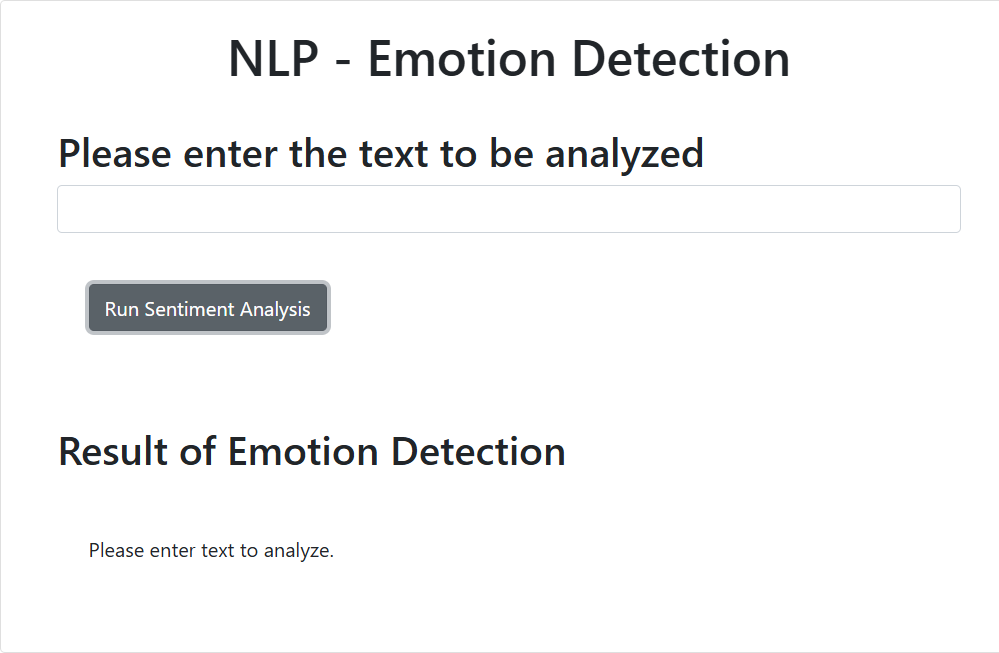
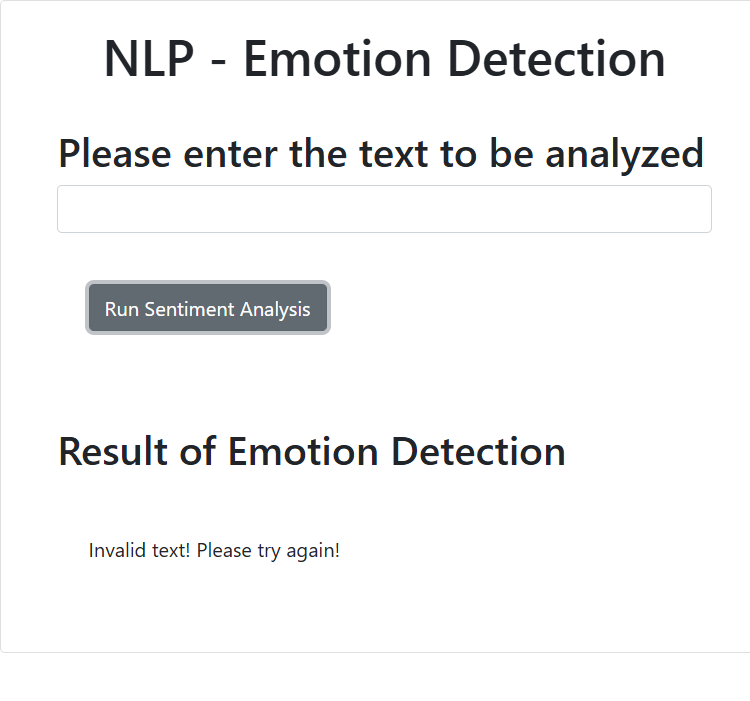
Address emotion detection rubric feedback

diff --git a/static/mywebscript.js b/static/mywebscript.js
@@ -8,20 +8,7 @@ let RunSentimentAnalysis = ()=>{
         }
 
         const responseElement = document.getElementById("system_response");
-        let responseData;
-        try {
-            responseData = JSON.parse(this.responseText);
-        } catch (error) {
-            responseElement.textContent = `Request failed (${this.status}).`;
-            return;
-        }
-
-        if (this.status === 200) {
-            responseElement.textContent = JSON.stringify(responseData, null, 2);
-        } else {
-            responseElement.textContent =
-                responseData.error || `Request failed (${this.status}).`;
-        }
+        responseElement.textContent = this.responseText;
     };
     xhttp.open(
         "GET",

diff --git a/test_emotion_detection.py b/test_emotion_detection.py
@@ -3,77 +3,98 @@
 import unittest
 from unittest.mock import patch
 
-import emotion_detection
+import emotion_detection as implementation
+from EmotionDetection.emotion_detection import emotion_detector
 
-API_URL = emotion_detection.API_URL
-MODEL_ID = emotion_detection.MODEL_ID
-emotion_detector = emotion_detection.emotion_detector
+API_URL = implementation.API_URL
+MODEL_ID = implementation.MODEL_ID
 
 
 class EmotionDetectorTests(unittest.TestCase):
     """Tests for emotion scoring and API request behavior."""
 
     @patch("emotion_detection.requests.post")
-    def test_returns_emotion_scores_and_dominant_emotion(self, mock_post):
-        """Return all emotion scores and identify the largest score."""
-        mock_post.return_value.status_code = 200
-        mock_post.return_value.json.return_value = {
-            "emotionPredictions": [
-                {
-                    "emotion": {
-                        "joy": 0.81,
-                        "anger": 0.02,
-                        "sadness": 0.04,
-                        "fear": 0.03,
-                        "disgust": 0.10,
-                    }
+    def test_five_sentences_return_expected_dominant_emotions(self, mock_post):
+        """Identify joy, anger, disgust, sadness, and fear for sample text."""
+        examples = (
+            ("I am glad this happened", "joy"),
+            ("I am really mad about this", "anger"),
+            ("I feel disgusted just hearing about this", "disgust"),
+            ("I am so sad about this", "sadness"),
+            ("I am really afraid that this will happen", "fear"),
+        )
+
+        for sentence, dominant_emotion in examples:
+            with self.subTest(dominant_emotion=dominant_emotion):
+                mock_post.return_value.status_code = 200
+                mock_post.return_value.json.return_value = {
+                    "emotionPredictions": [
+                        {
+                            "emotion": {
+                                emotion: 0.8 if emotion == dominant_emotion else 0.05
+                                for emotion in implementation.EMOTIONS
+                            }
+                        }
+                    ]
                 }
-            ]
-        }
 
-        result = emotion_detector("I feel great")
+                result = emotion_detector(sentence)
 
-        self.assertEqual(
-            result,
-            {
-                "joy": 0.81,
-                "anger": 0.02,
-                "sadness": 0.04,
-                "fear": 0.03,
-                "disgust": 0.10,
-                "dominant_emotion": "joy",
-            },
-        )
-        mock_post.assert_called_once_with(
-            API_URL,
-            json={"raw_document": {"text": "I feel great"}},
-            headers={"grpc-metadata-mm-model-id": MODEL_ID},
-            timeout=10,
-        )
+                self.assertEqual(result["dominant_emotion"], dominant_emotion)
+                self.assertEqual(
+                    set(result),
+                    {
+                        "anger",
+                        "disgust",
+                        "fear",
+                        "joy",
+                        "sadness",
+                        "dominant_emotion",
+                    },
+                )
+
+        self.assertEqual(mock_post.call_count, len(examples))
 
     @patch("emotion_detection.requests.post")
-    def test_blank_input_raises_value_error(self, _mock_post):
-        """Reject whitespace-only input without making an API request."""
-        with self.assertRaises(ValueError):
-            emotion_detector("   ")
+    def test_blank_input_returns_empty_scores_without_api_call(self, mock_post):
+        """Return empty emotion values for blank text without calling the API."""
+        result = emotion_detector("   ")
+
+        self.assertIsNone(result["dominant_emotion"])
+        self.assertTrue(all(result[emotion] is None for emotion in implementation.EMOTIONS))
+        mock_post.assert_not_called()
 
     @patch("emotion_detection.requests.post")
-    def test_bad_api_response_raises_runtime_error(self, mock_post):
-        """Raise an error when the API responds with a failure status."""
+    def test_bad_api_request_returns_empty_scores(self, mock_post):
+        """Return empty emotion values when the API responds with HTTP 400."""
+        mock_post.return_value.status_code = 400
+
+        result = emotion_detector("some text")
+
+        self.assertIsNone(result["dominant_emotion"])
+        self.assertTrue(all(result[emotion] is None for emotion in implementation.EMOTIONS))
+
+    @patch("emotion_detection.requests.post")
+    def test_server_error_raises_runtime_error(self, mock_post):
+        """Raise an error for upstream API failures other than HTTP 400."""
         mock_post.return_value.status_code = 500
 
         with self.assertRaises(RuntimeError):
-            emotion_detector("I feel great")
+            emotion_detector("some text")
 
     @patch("emotion_detection.requests.post")
-    def test_bad_request_returns_none_for_all_emotions(self, mock_post):
-        """Return empty emotion values when the API reports bad input."""
+    def test_sends_expected_api_request(self, mock_post):
+        """Send the required text, model header, and request timeout."""
         mock_post.return_value.status_code = 400
-        expected = dict.fromkeys(
-            ("anger", "disgust", "fear", "joy", "sadness", "dominant_emotion")
-        )
 
-        self.assertEqual(emotion_detector("I feel great"), expected)
+        emotion_detector("I am glad this happened")
+
+        mock_post.assert_called_once_with(
+            API_URL,
+            json={"raw_document": {"text": "I am glad this happened"}},
+            headers={"grpc-metadata-mm-model-id": MODEL_ID},
+            timeout=10,
+        )
 
 
 if __name__ == "__main__":

diff --git a/server.py b/server.py
@@ -1,33 +1,41 @@
 """Flask web application for emotion detection."""
 
-from flask import Flask, jsonify, render_template, request
+from flask import Flask, render_template, request
 
-from EmotionDetection import emotion_detector
-
-
-app = Flask(__name__)
+from EmotionDetection.emotion_detection import emotion_detector
 
 
-@app.get("/")
-def home():
+app = Flask("Emotion Detector")
+
+
+@app.route("/emotionDetector")
+def emotion_detector_function():
+    """Return formatted emotion scores or an invalid-input message."""
+    text_to_analyze = request.args.get("textToAnalyze", "")
+    try:
+        result = emotion_detector(text_to_analyze)
+    except RuntimeError as exc:
+        return str(exc), 502
+
+    if result["dominant_emotion"] is None:
+        return "Invalid text! Please try again!", 400
+
+    return (
+        "For the given statement, the system response is "
+        f"'anger': {result['anger']}, "
+        f"'disgust': {result['disgust']}, "
+        f"'fear': {result['fear']}, "
+        f"'joy': {result['joy']}, "
+        f"'sadness': {result['sadness']}. "
+        f"The dominant emotion is {result['dominant_emotion']}."
+    )
+
+
+@app.route("/")
+def render_index_page():
     """Render the application's home page."""
     return render_template("index.html")
 
 
-@app.get("/emotionDetector")
-def detect_emotion():
-    """Analyze submitted text and return emotion scores as JSON."""
-    text_to_analyze = request.args.get("textToAnalyze", "")
-
-    try:
-        result = emotion_detector(text_to_analyze)
-    except ValueError as exc:
-        return jsonify({"error": str(exc)}), 400
-    except RuntimeError as exc:
-        return jsonify({"error": str(exc)}), 502
-
-    return jsonify(result)
-
-
 if __name__ == "__main__":
-    app.run()
+    app.run(host="0.0.0.0", port=5000)

diff --git a/emotion_detection.py b/emotion_detection.py
@@ -9,12 +9,20 @@ API_URL = (
 )
 MODEL_ID = "emotion_aggregated-workflow_lang_en_stock"
 EMOTIONS = ("joy", "anger", "sadness", "fear", "disgust")
+EMPTY_RESULT = {
+    "joy": None,
+    "anger": None,
+    "sadness": None,
+    "fear": None,
+    "disgust": None,
+    "dominant_emotion": None,
+}
 
 
 def emotion_detector(text_to_analyze):
     """Send text to the emotion API and format its emotion scores."""
     if text_to_analyze is None or not str(text_to_analyze).strip():
-        raise ValueError("Please enter text to analyze.")
+        return EMPTY_RESULT.copy()
 
     try:
         response = requests.post(
@@ -27,14 +35,7 @@ def emotion_detector(text_to_analyze):
         raise RuntimeError("Could not connect to the emotion API.") from exc
 
     if response.status_code == 400:
-        return {
-            "joy": None,
-            "anger": None,
-            "sadness": None,
-            "fear": None,
-            "disgust": None,
-            "dominant_emotion": None,
-        }
+        return EMPTY_RESULT.copy()
 
     if response.status_code != 200:
         raise RuntimeError(f"Emotion API returned status {response.status_code}.")

diff --git a/README.md b/README.md
@@ -11,8 +11,8 @@ py server.py
 ```
 
 Then open <http://127.0.0.1:5000/> in a browser. The home page serves the
-interface, and `/emotionDetector?textToAnalyze=...` returns the emotion
-scores as JSON.
+interface, and `/emotionDetector?textToAnalyze=...` returns a formatted
+emotion summary. Blank input displays `Invalid text! Please try again!`.
 
 The application requires Flask and requests. If they are not installed, run:
 
